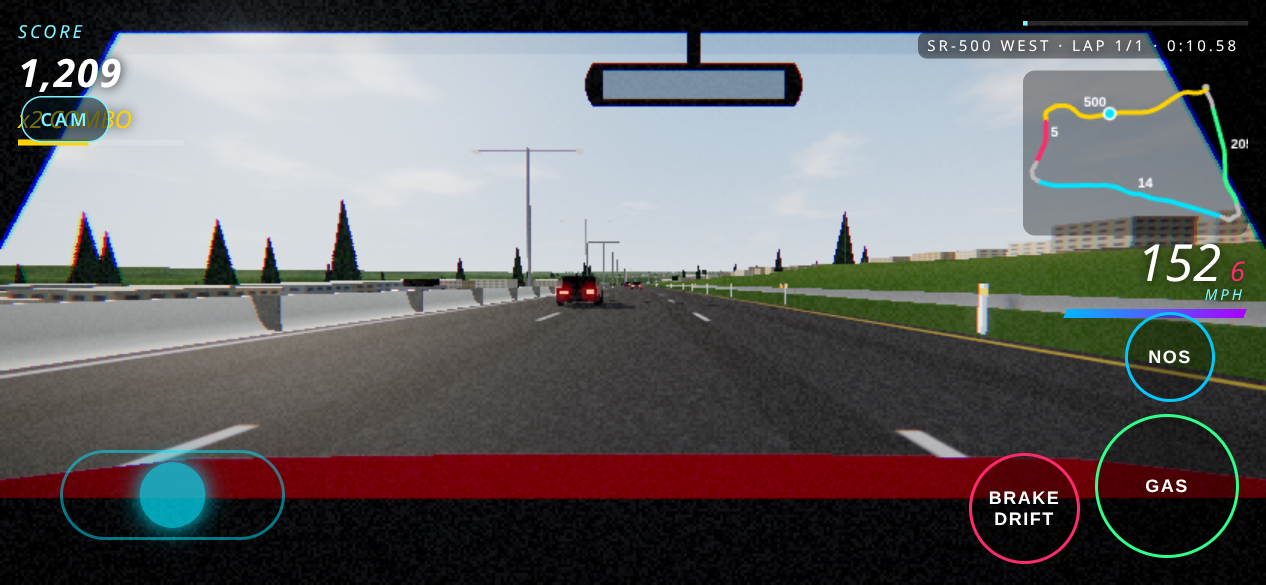
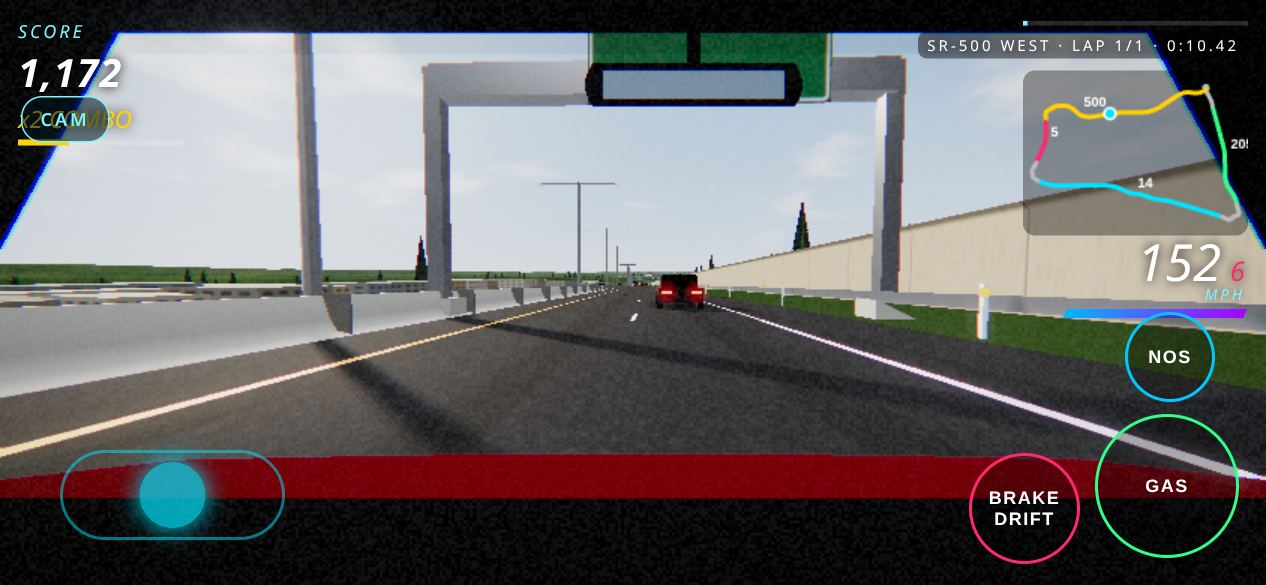
Whole-loop recognizability: exits w/ 1mi/half-mi signs (adds exit 29), named overpasses, flyovers, sound walls, SR-14 rail+train, bigger Glenn Jackson & Interstate Bridge

diff --git a/loop.js b/loop.js
@@ -229,7 +229,7 @@ function drawShield(x, kind, num, cx, cy, S) {
     x.fillStyle = '#111'; x.beginPath(); x.ellipse(-w * .3, -S * .24, S * .08, S * .11, -.3, 0, 7); x.fill(); // Washington profile (WA route shield)
     x.font = `bold ${S * .5}px Arial`; x.fillText(num, S * .06, S * .1); }
   x.restore(); }
-function guideTex(o) { return canvasTex(1024, 512, (x, w, h) => {
+function guideTex(o) { const Z = (LOW || MOBILE) ? .5 : 1; return canvasTex(1024 * Z, 512 * Z, (x, w, h) => { x.scale(Z, Z); w /= Z; h /= Z;
   x.fillStyle = '#0b6a3a'; x.beginPath(); x.roundRect(0, 0, w, h, 28); x.fill(); x.strokeStyle = '#f2f2f2'; x.lineWidth = 10; x.beginPath(); x.roundRect(14, 14, w - 28, h - 28, 20); x.stroke();
   let y = 34; const sh = o.sh || [];
   if (sh.length) { const S = 140, dir = sh.some(q => q[2]); sh.forEach(([k, n, d], i) => { const cx = w / 2 + (i - (sh.length - 1) / 2) * 280; if (d) { x.fillStyle = '#fff'; x.font = 'bold 50px Arial'; x.textAlign = 'center'; x.textBaseline = 'alphabetic'; x.fillText(d, cx, y + 46); } drawShield(x, k, n, cx, y + (dir ? 62 : 6) + S / 2, S); }); y += dir ? 218 : 160; }
@@ -259,12 +259,18 @@ function gantry(s, signs) { frame(s, F); const h = F.h, iR = W(Math.floor(s / ST
 const ROUTE = { 'I-5': ['I', '5', 'SOUTH'], 'I-205': ['I', '205', 'NORTH'], 'SR-14': ['S', '14', 'EAST'], 'SR-500': ['S', '500', 'WEST'] };
 const CTRL = { 'I-5': 'Portland', 'I-205': 'Seattle · Orchards', 'SR-14': 'Camas · Washougal', 'SR-500': 'Vancouver · I-5' };
 const parseR = t => { const m = /^(I|SR)\s*(\d+)\s*([A-Za-z]*)/.exec(t || ''); return m ? [m[1] === 'I' ? 'I' : 'S', m[2], m[3].toUpperCase()] : null; };
-const taken = [], freeAt = s => !taken.some(t => Math.abs(t - s) < 170);
-const EXS = OSM.exits.map(e => ({ ...e, s: e.i * STEP, nm: [...new Set(e.names.map(abbr))].slice(0, 2), sh: parseR(e.dref), ref: e.ref.replace(/;/g, '/') }));
+const taken = [], freeAt = s => !taken.some(t => Math.abs(t - s) < 130), side = [];
+const EXS = OSM.exits.map(e => ({ ...e, s: e.i * STEP, nm: [...new Set(e.names.map(abbr))].slice(0, 2), sh: (e.dref || '').split(';').map(parseR).filter(Boolean).slice(0, 2), ref: e.ref.replace(/;/g, '/') }));
 TR.secs.forEach(([nm, i0]) => { if (nm === 'Ramp') return; const s = i0 * STEP + 240; taken.push(s); gantry(s, [{ d: -1.6, w: 7.4, tex: guideTex({ sh: [ROUTE[nm]], lines: [CTRL[nm]] }) }]); });
-for (const e of EXS) { const sh = e.sh ? [e.sh] : [], lines = e.nm.length ? e.nm : ['Exit'];
-  for (const [b, foot] of [[760, '½ MILE'], [280, 'EXIT ONLY']]) { const s = e.s - b; if (s < 0 || !freeAt(s)) continue; taken.push(s); const nl = nlAt(s);
-    gantry(s, [{ d: laneD(nl - 1) + .4, w: 7.4, tab: e.ref ? 'EXIT ' + e.ref : '', tex: guideTex({ sh, lines, foot }) }]); } }
+const wrapS = s => ((s % L) + L) % L;
+function sideSign(s, tex) { frame(s, F); const d = 11.2 + exrAt(s), grp = new THREE.Group(); const sg = new THREE.Mesh(new THREE.PlaneGeometry(6.4, 3.2), signMat(tex)); sg.position.set(0, 4.4, 0); sg.rotation.y = Math.PI; grp.add(sg);
+  const bk = new THREE.Mesh(new THREE.PlaneGeometry(6.4, 3.2), backMat); bk.position.set(0, 4.4, .05); grp.add(bk); [-2.2, 2.2].forEach(x => { const po = new THREE.Mesh(new THREE.BoxGeometry(.25, 6, .25), steel); po.position.set(x, 2.4, .2); grp.add(po); });
+  grp.position.set(F.p.x + F.r.x * d, F.p.y - .6, F.p.z + F.r.z * d); grp.rotation.y = F.h; scene.add(grp); side.push(s); }
+for (const [b, foot] of [[300, 'EXIT ONLY'], [805, '½ MILE']]) for (const e of EXS) { const lines = e.nm.length ? e.nm : ['Exit'];
+  for (const o of [0, 40, -40, 80, -80, 120]) { const s = wrapS(e.s - b + o); if (!freeAt(s)) continue; taken.push(s); const nl = nlAt(s);
+    gantry(s, [{ d: laneD(nl - 1) + .4, w: 7.4, tab: e.ref ? 'EXIT ' + e.ref : '', tex: guideTex({ sh: e.sh, lines, foot: e.route && foot === 'EXIT ONLY' ? '' : foot }) }]); break; } }
+for (const e of EXS) for (const o of [0, 60, -60, 120, -120, 180]) { const s = wrapS(e.s - 1610 + o); if (taken.some(t => Math.abs(t - s) < 45) || side.some(t => Math.abs(t - s) < 80) || OPEN[W(Math.floor(s / STEP))]) continue;
+  sideSign(s, guideTex({ sh: e.sh, lines: e.nm.length ? e.nm : ['Exit'], foot: '1 MILE' })); if (e.ref) { } break; }
 // ramp ribbons + gore: crash cushion + 'EXIT nn' post sign
 { const rampTex = canvasTex(128, 256, (x, w, h) => { x.fillStyle = DAY ? '#3e3e42' : '#16161a'; x.fillRect(0, 0, w, h); for (let i = 0; i < 3000; i++) { const g = (DAY ? 46 : 14) + Math.random() * 40 | 0; x.fillStyle = `rgb(${g},${g},${g + 3})`; x.fillRect(Math.random() * w, Math.random() * h, 1.5, 1.5); } x.fillStyle = '#e6e6e6'; x.fillRect(4, 0, 4, h); x.fillStyle = '#e6e6e6'; x.fillRect(w - 8, 0, 4, h); }, true);
   const pos = [], uv = [], idx = []; let base = 0;
@@ -295,29 +301,29 @@ function beams(list, mat, th) { const g = new THREE.BoxGeometry(1, 1, 1); g.tran
 const resamp = (g, st) => { const o = []; for (let k = 0; k < g.length - 1; k++) { const [x0, z0] = g[k], [x1, z1] = g[k + 1], n = Math.max(1, Math.round(Math.hypot(x1 - x0, z1 - z0) / st)); for (let m = 0; m < n; m++) o.push([x0 + (x1 - x0) * m / n, z0 + (z1 - z0) * m / n]); } o.push(g.at(-1)); return o; };
 // Interstate Bridge: twin steel through-truss spans with the vertical-lift towers on the Vancouver side
 { const A = [-4930, 2017], B = [-5325, 2995], al = Math.hypot(B[0] - A[0], B[1] - A[1]), ux = (B[0] - A[0]) / al, uz = (B[1] - A[1]) / al;
-  const tm = new THREE.MeshStandardMaterial({ color: DAY ? 0x7d8a80 : 0x2a302c, roughness: .55, metalness: .5 }), dm = new THREE.MeshStandardMaterial({ color: DAY ? 0x9d9a92 : 0x2a2a2c, roughness: .9 });
+  const tm = new THREE.MeshStandardMaterial({ color: DAY ? 0x56665c : 0x2a302c, roughness: .55, metalness: .5 }), dm = new THREE.MeshStandardMaterial({ color: DAY ? 0x9d9a92 : 0x2a2a2c, roughness: .9 });
   const tr = [], dk = [], pr = [], tw = [];
   for (const w of OSM.lmk.ibridge) { const g = resamp(w.g, 9);
     for (let k = 0; k < g.length - 1; k++) { const [x0, z0] = g[k], [x1, z1] = g[k + 1], dx = x1 - x0, dz = z1 - z0, dl = Math.hypot(dx, dz) || 1, nx = -dz / dl, nz = dx / dl;
       const u0 = (x0 - A[0]) * ux + (z0 - A[1]) * uz, u1 = (x1 - A[0]) * ux + (z1 - A[1]) * uz;
       const yd0 = Math.max(demAt(x0, z0) + .8, WATER_Y + 13), yd1 = Math.max(demAt(x1, z1) + .8, WATER_Y + 13);
-      const ht = u => w.mov ? 13 : 5 + 7 * Math.sin(Math.PI * (((u % 82) + 82) % 82) / 82);
+      const ht = u => w.mov ? 20 : 7 + 11 * Math.sin(Math.PI * (((u % 82) + 82) % 82) / 82);
       dk.push([x0, yd0 - .6, z0, x1, yd1 - .6, z1, 12.5, 1.2]);
       if (u0 < 40 || u0 > al - 30) continue;
       [-6.5, 6.5].forEach(o => { const ax = x0 + nx * o, az = z0 + nz * o, bx = x1 + nx * o, bz = z1 + nz * o, h0 = ht(u0), h1 = ht(u1);
-        tr.push([ax, yd0, az, bx, yd1, bz, .6, .7], [ax, yd0 + h0, az, bx, yd1 + h1, bz, .7, .7], [ax, yd0, az, ax, yd0 + h0, az, .35, .35], [k % 2 ? ax : bx, k % 2 ? yd0 : yd1, k % 2 ? az : bz, k % 2 ? bx : ax, k % 2 ? yd1 + h1 : yd0 + h0, k % 2 ? bz : az, .3, .3]); });
+        tr.push([ax, yd0, az, bx, yd1, bz, 1.1, 1.2], [ax, yd0 + h0, az, bx, yd1 + h1, bz, 1.3, 1.3], [ax, yd0, az, ax, yd0 + h0, az, .7, .7], [k % 2 ? ax : bx, k % 2 ? yd0 : yd1, k % 2 ? az : bz, k % 2 ? bx : ax, k % 2 ? yd1 + h1 : yd0 + h0, k % 2 ? bz : az, .3, .3]); });
       tr.push([x0 - nx * 6.5, yd0 + ht(u0), z0 - nz * 6.5, x0 + nx * 6.5, yd0 + ht(u0), z0 + nz * 6.5, .3, .3]);
       if (Math.floor(u0 / 82) !== Math.floor(u1 / 82) && demAt(x0, z0) < WATER_Y + 3) pr.push([x0, WATER_Y - 2, z0, x0, yd0 - 1.2, z0, 15, 4]); }
-    if (w.mov) [w.g[0], w.g.at(-1)].forEach(([x, z]) => { const yd = WATER_Y + 13; [-1, 1].forEach(sx => [-1, 1].forEach(sz => tw.push([x + uz * 7 * sx + ux * 2.5 * sz, yd, z - ux * 7 * sx + uz * 2.5 * sz, x + uz * 7 * sx + ux * 2.5 * sz, yd + 50, z - ux * 7 * sx + uz * 2.5 * sz, .9, .9])));
-      tw.push([x + uz * 7.5, yd + 50, z - ux * 7.5, x - uz * 7.5, yd + 50, z + ux * 7.5, 6, 2.2], [x + uz * 7.5, yd + 30, z - ux * 7.5, x - uz * 7.5, yd + 30, z + ux * 7.5, 5.5, 4]); }); }
+    if (w.mov) [w.g[0], w.g.at(-1)].forEach(([x, z]) => { const yd = WATER_Y + 13; [-1, 1].forEach(sx => [-1, 1].forEach(sz => tw.push([x + uz * 7 * sx + ux * 2.5 * sz, yd, z - ux * 7 * sx + uz * 2.5 * sz, x + uz * 7 * sx + ux * 2.5 * sz, yd + 88, z - ux * 7 * sx + uz * 2.5 * sz, 2.6, 2.6])));
+      tw.push([x + uz * 8.5, yd + 88, z - ux * 8.5, x - uz * 8.5, yd + 88, z + ux * 8.5, 7, 4], [x + uz * 8.5, yd + 56, z - ux * 8.5, x - uz * 8.5, yd + 56, z + ux * 8.5, 6, 3], [x + uz * 8.5, yd + 24, z - ux * 8.5, x - uz * 8.5, yd + 24, z + ux * 8.5, 6, 3]); }); }
   beams(tr, tm, .5); beams(dk, dm, 1); beams(pr, dm, 4); beams(tw, tm, 1); }
 // Glenn L. Jackson Bridge (I-205): long, high concrete box girder on tall piers
 { const ws = OSM.lmk.glenn.filter(g => g.every(([x, z]) => x > 3800 && x < 5600 && z > 3700 && z < 6600)); let z0 = 1e9, z1 = -1e9; ws.forEach(g => g.forEach(([, z]) => { z0 = Math.min(z0, z); z1 = Math.max(z1, z); }));
-  const dm = new THREE.MeshStandardMaterial({ color: DAY ? 0xa29e94 : 0x333335, roughness: .85 }), dk = [], pr = [];
-  const yAt = (x, z) => Math.max(demAt(x, z) + 1, WATER_Y + 4 + 52 * THREE.MathUtils.smoothstep(z, z0, z0 + 450) * (1 - THREE.MathUtils.smoothstep(z, z1 - 600, z1)));
+  const dm = new THREE.MeshStandardMaterial({ color: DAY ? 0x8e8a81 : 0x333335, roughness: .85 }), dk = [], pr = [];
+  const yAt = (x, z) => Math.max(demAt(x, z) + 1, WATER_Y + 4 + 100 * THREE.MathUtils.smoothstep(z, z0, z0 + 650) * (1 - THREE.MathUtils.smoothstep(z, z1 - 600, z1)));
   for (const w of ws) { const g = resamp(w, 12); for (let k = 0; k < g.length - 1; k++) { const [xa, za] = g[k], [xb, zb] = g[k + 1], ya = yAt(xa, za), yb = yAt(xb, zb);
       if (Math.min(...P.filter((_, i) => i % 8 === 0).map(p => Math.hypot(p.x - xa, p.z - za))) < 30) continue;
-      dk.push([xa, ya - 3.5, za, xb, yb - 3.5, zb, 20, 5], [xa, ya + .5, za, xb, yb + .5, zb, 20.5, 1]); if (k % 7 === 0 && ya - demAt(xa, za) > 6) pr.push([xa, Math.max(demAt(xa, za), WATER_Y) - 2, za, xa, ya - 3.5, za, 12, 4.5]); } }
+      dk.push([xa, ya - 6, za, xb, yb - 6, zb, 24, 8], [xa, ya + .5, za, xb, yb + .5, zb, 20.5, 1]); if (k % 5 === 0 && ya - demAt(xa, za) > 6) pr.push([xa, Math.max(demAt(xa, za), WATER_Y) - 2, za, xa, ya - 3.5, za, 12, 4.5]); } }
   if (dk.length) { beams(dk, dm, 1); beams(pr, dm, 4); } }
 // water towers (incl. the one by Pearson / Fort Vancouver)
 { const wm = new THREE.MeshStandardMaterial({ color: 0xd7dde2, roughness: .5, metalness: .3 });
@@ -351,6 +357,51 @@ const resamp = (g, st) => { const o = []; for (let k = 0; k < g.length - 1; k++)
   const st = canvasTex(512, 256, (x, w, h) => { x.fillStyle = '#b3122a'; x.fillRect(0, 0, w, h); x.fillStyle = '#fff'; x.textAlign = 'center'; x.font = 'bold 96px Arial'; x.fillText('VANCOUVER', w / 2, 110); x.font = 'bold 110px Arial'; x.fillText('MALL', w / 2, 220); });
   const pl = new THREE.Mesh(new THREE.BoxGeometry(8, 4, .5), [backMat, backMat, backMat, backMat, signMat(st), signMat(st)]); pl.position.y = 19; pyl.add(pl); pyl.position.set(pp.x, py, pp.z); pyl.rotation.y = T[sj] ? Math.atan2(T[sj].x, T[sj].z) : 0; scene.add(pyl); }
 
+// ---------- whole-loop recognizability: overpasses with street names, interchange flyovers + crossing mainlines, sound walls, BNSF rail on SR-14 ----------
+const nameTex = t => canvasTex(512, 96, (x, w, h) => { x.fillStyle = '#0b6a3a'; x.beginPath(); x.roundRect(0, 0, w, h, 12); x.fill(); x.strokeStyle = '#f2f2f2'; x.lineWidth = 5; x.beginPath(); x.roundRect(6, 6, w - 12, h - 12, 9); x.stroke();
+  x.fillStyle = '#fff'; x.textAlign = 'center'; x.textBaseline = 'middle'; let fs = 62; x.font = `bold ${fs}px "Arial Narrow", Arial`; while (x.measureText(t).width > w - 40 && fs > 24) { fs -= 3; x.font = `bold ${fs}px "Arial Narrow", Arial`; } x.fillText(t, w / 2, h / 2 + 3); });
+{ const dk = [], pr = [], pp = [];
+  for (const c of OSM.xing) { const i = c.i, p = P[i], rn = RN[i], t = T[i], nm = abbr(c.name);
+    if (c.over) { const cs = c.dx * rn.x + c.dz * rn.z, sgn = Math.abs(cs) < .35 ? Math.sign(cs || 1) * .35 : cs, yd = p.y + 7.2, hl = clamp(c.len / 2, 30 + EXR[i], 70);
+      dk.push([c.x - c.dx * hl, yd, c.z - c.dz * hl, c.x + c.dx * hl, yd, c.z + c.dz * hl, 13, 1.7], [c.x - c.dx * hl, yd + .85, c.z - c.dz * hl, c.x + c.dx * hl, yd + .85, c.z + c.dz * hl, 13.4, .5]);
+      for (const d of [-8.6, 12.6 + EXR[i], -30]) { const q = d / sgn, x = c.x + c.dx * q, z = c.z + c.dz * q; for (const o of [-4, 4]) pr.push([x + t.x * o, Math.min(p.y, demAt(x, z)) - 1, z + t.z * o, x + t.x * o, yd - .85, z + t.z * o, 1.3, 1.3]); }
+      const g = new THREE.Mesh(new THREE.PlaneGeometry(12, 2.1), signMat(nameTex(nm))); g.position.set(c.x - t.x * 7.0 + rn.x * 1.5, yd + .1, c.z - t.z * 7.0 + rn.z * 1.5); g.rotation.y = Math.atan2(t.x, t.z) + Math.PI; scene.add(g); }
+    else { const s = i * STEP - 70; frame(s, F); const d = 10.4 + exrAt(s), x = F.p.x + F.r.x * d, z = F.p.z + F.r.z * d; pp.push([x, F.p.y - 1, z, x, F.p.y + 3.2, z, .14, .14]);
+      const g = new THREE.Mesh(new THREE.PlaneGeometry(4.6, .86), signMat(nameTex(nm))); g.position.set(x, F.p.y + 3.6, z); g.rotation.y = F.h + Math.PI; scene.add(g); } }
+  beams(dk, conc, 1); beams(pr, conc, 1.3); if (pp.length) beams(pp, steel, .14); }
+// ribbon helper along an xz polyline with per-point y; prof = [[across, dy], ...]
+function ribbon(list, mat, prof, vS = 24) { const pos = [], uv = [], idx = []; let base = 0; const n = prof.length;
+  for (const L of list) { const m = L.length; let v = 0;
+    for (let k = 0; k < m; k++) { const [x, y, z] = L[k], a = L[Math.max(0, k - 1)], b = L[Math.min(m - 1, k + 1)]; let tx = b[0] - a[0], tz = b[2] - a[2]; const tl = Math.hypot(tx, tz) || 1; tx /= tl; tz /= tl;
+      if (k) v += Math.hypot(x - L[k - 1][0], z - L[k - 1][2]); const w = L[k][3] || 1;
+      for (let j = 0; j < n; j++) { const d = prof[j][0] * w; pos.push(x - tz * d, y + prof[j][1], z + tx * d); uv.push(j / (n - 1), v / vS); }
+      if (k) for (let j = 0; j < n - 1; j++) { const q = base + (k - 1) * n + j; idx.push(q, q + n, q + 1, q + 1, q + n, q + n + 1); } }
+    base += m * n; }
+  const g = new THREE.BufferGeometry(); g.setAttribute('position', new THREE.Float32BufferAttribute(pos, 3)); g.setAttribute('uv', new THREE.Float32BufferAttribute(uv, 2)); g.setIndex(idx); g.computeVertexNormals();
+  const me = new THREE.Mesh(g, mat); me.receiveShadow = DAY; me.frustumCulled = false; scene.add(me); return me; }
+const pkd = P.filter((_, i) => i % 4 === 0), loopNear = (x, z) => { let bd = 1e18, by = 0; for (const p of pkd) { const d = (p.x - x) ** 2 + (p.z - z) ** 2; if (d < bd) { bd = d; by = p.y; } } return [Math.sqrt(bd), by]; };
+// interchange flyovers (OSM motorway_link bridges, layer-lifted, cleared over the loop) + the crossing mainlines
+{ const top = [], dkL = [], pr = [];
+  for (const f of OSM.fly) { const g = resamp(f.g, 8), m = g.length, gl = g.map(([x, z]) => Math.max(demAt(x, z), WATER_Y) + .5); let cl = 0; const cum = [0]; for (let k = 1; k < m; k++) cum.push(cum[k - 1] + Math.hypot(g[k][0] - g[k - 1][0], g[k][1] - g[k - 1][1])); const tot = cum[m - 1];
+    let lift = 0; if (f.br) { lift = 7.4 * Math.max(1, f.ly); for (const [x, z] of g) { const [d, y] = loopNear(x, z); if (d < 22) lift = Math.max(lift, y + 7.6 - Math.min(...gl)); } }
+    const L = g.map(([x, z], k) => { const tp = f.br ? Math.min(1, Math.min(cum[k], tot - cum[k]) / Math.min(70, tot / 2.2) + .25) : 0; return [x, gl[k] + lift * Math.min(1, tp), z, f.w / 2]; });
+    top.push(L); if (f.br) { dkL.push(L); L.forEach((p, k) => { if (k % 4 === 2 && p[1] - gl[k] > 4) pr.push([p[0], gl[k] - 1, p[2], p[0], p[1] - 1.2, p[2], 2.2, 2.2]); }); } }
+  const rt = canvasTex(128, 256, (x, w, h) => { x.fillStyle = DAY ? '#45454a' : '#16161a'; x.fillRect(0, 0, w, h); for (let i = 0; i < 2500; i++) { const g = (DAY ? 50 : 14) + Math.random() * 40 | 0; x.fillStyle = `rgb(${g},${g},${g + 3})`; x.fillRect(Math.random() * w, Math.random() * h, 1.5, 1.5); } x.fillStyle = '#e6e6e6'; x.fillRect(3, 0, 4, h); x.fillRect(w - 7, 0, 4, h); }, true);
+  ribbon(top, new THREE.MeshStandardMaterial({ map: rt, roughness: .9, color: 0x9a9a9e, side: 2, polygonOffset: true, polygonOffsetFactor: -2 }), [[-1, 0], [1, 0]]);
+  ribbon(dkL, conc, [[-1.08, -1.6], [-1.08, .9], [-1, .9], [-1, 0.05], [-1.08, -1.6], [1.08, -1.6], [1, .05], [1, .9], [1.08, .9], [1.08, -1.6]]);
+  beams(pr, conc, 2.2); }
+// sound walls: tan concrete panels behind the right shoulder on I-205 and SR-500 (gaps at ramps, bridges, overpasses)
+{ const wt = canvasTex(64, 256, (x, w, h) => { x.fillStyle = DAY ? '#b3a58e' : '#3a362f'; x.fillRect(0, 0, w, h); for (let i = 0; i < 900; i++) { x.fillStyle = `rgba(0,0,0,${Math.random() * .08})`; x.fillRect(Math.random() * w, Math.random() * h, 2, 2); } x.fillStyle = 'rgba(0,0,0,.35)'; x.fillRect(0, 0, w, 3); x.fillStyle = 'rgba(255,255,255,.18)'; x.fillRect(0, 4, w, 2); x.fillStyle = 'rgba(0,0,0,.12)'; x.fillRect(w * .78, 0, w * .22, h); }, true);
+  const near = new Uint8Array(N); OSM.xing.forEach(c => { for (let q = -12; q <= 12; q++) near[W(c.i + q)] = 1; });
+  const use = i => (SEC[i] === 'I-205' || (SEC[i] === 'SR-500' && (i < 5720 || i > 6060))) && !BRG[i] && !near[i] && !OPEN[W(i - 8)] && !OPEN[i] && !OPEN[W(i + 8)];
+  sweep([[13.6, -3], [13.6, 3.6], [13.9, 3.9], [14.2, 3.6], [14.2, -3]], new THREE.MeshStandardMaterial({ map: wt, roughness: .95 }), { k: 2, use, vScale: 1 / 6 }); }
+// BNSF main line along SR-14 (real OSM track) + a parked freight
+{ const bt = canvasTex(64, 64, (x, w, h) => { x.fillStyle = DAY ? '#7a7166' : '#24211e'; x.fillRect(0, 0, w, h); for (let i = 0; i < 500; i++) { const g = 90 + Math.random() * 60 | 0; x.fillStyle = `rgba(${g},${g - 8},${g - 16},.6)`; x.fillRect(Math.random() * w, Math.random() * h, 2, 2); } x.fillStyle = '#3b2a1e'; x.fillRect(8, 0, w - 16, 14); x.fillStyle = '#b8b8bc'; x.fillRect(19, 0, 4, h); x.fillRect(w - 23, 0, 4, h); }, true);
+  const RL = OSM.rail.map(r => resamp(r, 6).map(([x, z]) => [x, Math.max(demAt(x, z), WATER_Y + .5) + 1.1, z, 1]));
+  ribbon(RL, new THREE.MeshStandardMaterial({ map: bt, roughness: 1, polygonOffset: true, polygonOffsetFactor: -2 }), [[-2.2, 0], [2.2, 0]], 2.4);
+  const sc = r => r.filter(([x, , z]) => { for (let i = 2300; i < 2750; i += 10) if (Math.hypot(P[i].x - x, P[i].z - z) < 110) return true; return false; }).length, lg = RL.reduce((a, b) => sc(b) > sc(a) ? b : a, []), cars = []; const cols = [0x8a3a22, 0x2c4a6a, 0x5b5f63, 0x7a2f1c, 0x335533, 0x9a6a2a];
+  for (let k = 20; k + 3 < lg.length && cars.length < (LOW ? 28 : 48); k += 3) { const a = lg[k], b = lg[k + 3]; cars.push([a[0], a[1] + .9, a[2], b[0], b[1] + .9, b[2], 3, 4]); }
+  if (cars.length) { const im = beams(cars, new THREE.MeshStandardMaterial({ roughness: .8 }), 3); const c = new THREE.Color(); cars.forEach((_, i) => im.setColorAt(i, c.setHex(i < 3 ? 0xd2691e : cols[i % cols.length]))); } }
 // ---------- fir tree cards (instanced crossed quads) ----------
 { const firTex = canvasTex(128, 256, (x, w, h) => { x.clearRect(0, 0, w, h); for (let i = 0; i < 26; i++) { const y = 20 + i * 8.6, hw = 6 + i * 2.2; x.fillStyle = `rgb(${8 + Math.random() * 10 | 0},${22 + Math.random() * 16 | 0},${14 + Math.random() * 10 | 0})`; x.beginPath(); x.moveTo(w / 2, y - 14); x.lineTo(w / 2 - hw, y + 12); x.lineTo(w / 2 + hw, y + 12); x.fill(); } x.fillStyle = '#1a120c'; x.fillRect(w / 2 - 4, h - 26, 8, 26); });
   const g1 = new THREE.PlaneGeometry(1, 1); g1.translate(0, .5, 0); const g2 = g1.clone().rotateY(Math.PI / 2); const gg = new THREE.BufferGeometry();

diff --git a/loopsrc/whole_scene.js b/loopsrc/whole_scene.js
@@ -1,0 +1,45 @@
+// ---------- whole-loop recognizability: overpasses with street names, interchange flyovers + crossing mainlines, sound walls, BNSF rail on SR-14 ----------
+const nameTex = t => canvasTex(512, 96, (x, w, h) => { x.fillStyle = '#0b6a3a'; x.beginPath(); x.roundRect(0, 0, w, h, 12); x.fill(); x.strokeStyle = '#f2f2f2'; x.lineWidth = 5; x.beginPath(); x.roundRect(6, 6, w - 12, h - 12, 9); x.stroke();
+  x.fillStyle = '#fff'; x.textAlign = 'center'; x.textBaseline = 'middle'; let fs = 62; x.font = `bold ${fs}px "Arial Narrow", Arial`; while (x.measureText(t).width > w - 40 && fs > 24) { fs -= 3; x.font = `bold ${fs}px "Arial Narrow", Arial`; } x.fillText(t, w / 2, h / 2 + 3); });
+{ const dk = [], pr = [], pp = [];
+  for (const c of OSM.xing) { const i = c.i, p = P[i], rn = RN[i], t = T[i], nm = abbr(c.name);
+    if (c.over) { const cs = c.dx * rn.x + c.dz * rn.z, sgn = Math.abs(cs) < .35 ? Math.sign(cs || 1) * .35 : cs, yd = p.y + 7.2, hl = clamp(c.len / 2, 30 + EXR[i], 70);
+      dk.push([c.x - c.dx * hl, yd, c.z - c.dz * hl, c.x + c.dx * hl, yd, c.z + c.dz * hl, 13, 1.7], [c.x - c.dx * hl, yd + .85, c.z - c.dz * hl, c.x + c.dx * hl, yd + .85, c.z + c.dz * hl, 13.4, .5]);
+      for (const d of [-8.6, 12.6 + EXR[i], -30]) { const q = d / sgn, x = c.x + c.dx * q, z = c.z + c.dz * q; for (const o of [-4, 4]) pr.push([x + t.x * o, Math.min(p.y, demAt(x, z)) - 1, z + t.z * o, x + t.x * o, yd - .85, z + t.z * o, 1.3, 1.3]); }
+      const g = new THREE.Mesh(new THREE.PlaneGeometry(12, 2.1), signMat(nameTex(nm))); g.position.set(c.x - t.x * 7.0 + rn.x * 1.5, yd + .1, c.z - t.z * 7.0 + rn.z * 1.5); g.rotation.y = Math.atan2(t.x, t.z) + Math.PI; scene.add(g); }
+    else { const s = i * STEP - 70; frame(s, F); const d = 10.4 + exrAt(s), x = F.p.x + F.r.x * d, z = F.p.z + F.r.z * d; pp.push([x, F.p.y - 1, z, x, F.p.y + 3.2, z, .14, .14]);
+      const g = new THREE.Mesh(new THREE.PlaneGeometry(4.6, .86), signMat(nameTex(nm))); g.position.set(x, F.p.y + 3.6, z); g.rotation.y = F.h + Math.PI; scene.add(g); } }
+  beams(dk, conc, 1); beams(pr, conc, 1.3); if (pp.length) beams(pp, steel, .14); }
+// ribbon helper along an xz polyline with per-point y; prof = [[across, dy], ...]
+function ribbon(list, mat, prof, vS = 24) { const pos = [], uv = [], idx = []; let base = 0; const n = prof.length;
+  for (const L of list) { const m = L.length; let v = 0;
+    for (let k = 0; k < m; k++) { const [x, y, z] = L[k], a = L[Math.max(0, k - 1)], b = L[Math.min(m - 1, k + 1)]; let tx = b[0] - a[0], tz = b[2] - a[2]; const tl = Math.hypot(tx, tz) || 1; tx /= tl; tz /= tl;
+      if (k) v += Math.hypot(x - L[k - 1][0], z - L[k - 1][2]); const w = L[k][3] || 1;
+      for (let j = 0; j < n; j++) { const d = prof[j][0] * w; pos.push(x - tz * d, y + prof[j][1], z + tx * d); uv.push(j / (n - 1), v / vS); }
+      if (k) for (let j = 0; j < n - 1; j++) { const q = base + (k - 1) * n + j; idx.push(q, q + n, q + 1, q + 1, q + n, q + n + 1); } }
+    base += m * n; }
+  const g = new THREE.BufferGeometry(); g.setAttribute('position', new THREE.Float32BufferAttribute(pos, 3)); g.setAttribute('uv', new THREE.Float32BufferAttribute(uv, 2)); g.setIndex(idx); g.computeVertexNormals();
+  const me = new THREE.Mesh(g, mat); me.receiveShadow = DAY; me.frustumCulled = false; scene.add(me); return me; }
+const pkd = P.filter((_, i) => i % 4 === 0), loopNear = (x, z) => { let bd = 1e18, by = 0; for (const p of pkd) { const d = (p.x - x) ** 2 + (p.z - z) ** 2; if (d < bd) { bd = d; by = p.y; } } return [Math.sqrt(bd), by]; };
+// interchange flyovers (OSM motorway_link bridges, layer-lifted, cleared over the loop) + the crossing mainlines
+{ const top = [], dkL = [], pr = [];
+  for (const f of OSM.fly) { const g = resamp(f.g, 8), m = g.length, gl = g.map(([x, z]) => Math.max(demAt(x, z), WATER_Y) + .5); let cl = 0; const cum = [0]; for (let k = 1; k < m; k++) cum.push(cum[k - 1] + Math.hypot(g[k][0] - g[k - 1][0], g[k][1] - g[k - 1][1])); const tot = cum[m - 1];
+    let lift = 0; if (f.br) { lift = 7.4 * Math.max(1, f.ly); for (const [x, z] of g) { const [d, y] = loopNear(x, z); if (d < 22) lift = Math.max(lift, y + 7.6 - Math.min(...gl)); } }
+    const L = g.map(([x, z], k) => { const tp = f.br ? Math.min(1, Math.min(cum[k], tot - cum[k]) / Math.min(70, tot / 2.2) + .25) : 0; return [x, gl[k] + lift * Math.min(1, tp), z, f.w / 2]; });
+    top.push(L); if (f.br) { dkL.push(L); L.forEach((p, k) => { if (k % 4 === 2 && p[1] - gl[k] > 4) pr.push([p[0], gl[k] - 1, p[2], p[0], p[1] - 1.2, p[2], 2.2, 2.2]); }); } }
+  const rt = canvasTex(128, 256, (x, w, h) => { x.fillStyle = DAY ? '#45454a' : '#16161a'; x.fillRect(0, 0, w, h); for (let i = 0; i < 2500; i++) { const g = (DAY ? 50 : 14) + Math.random() * 40 | 0; x.fillStyle = `rgb(${g},${g},${g + 3})`; x.fillRect(Math.random() * w, Math.random() * h, 1.5, 1.5); } x.fillStyle = '#e6e6e6'; x.fillRect(3, 0, 4, h); x.fillRect(w - 7, 0, 4, h); }, true);
+  ribbon(top, new THREE.MeshStandardMaterial({ map: rt, roughness: .9, color: 0x9a9a9e, side: 2, polygonOffset: true, polygonOffsetFactor: -2 }), [[-1, 0], [1, 0]]);
+  ribbon(dkL, conc, [[-1.08, -1.6], [-1.08, .9], [-1, .9], [-1, 0.05], [-1.08, -1.6], [1.08, -1.6], [1, .05], [1, .9], [1.08, .9], [1.08, -1.6]]);
+  beams(pr, conc, 2.2); }
+// sound walls: tan concrete panels behind the right shoulder on I-205 and SR-500 (gaps at ramps, bridges, overpasses)
+{ const wt = canvasTex(64, 256, (x, w, h) => { x.fillStyle = DAY ? '#b3a58e' : '#3a362f'; x.fillRect(0, 0, w, h); for (let i = 0; i < 900; i++) { x.fillStyle = `rgba(0,0,0,${Math.random() * .08})`; x.fillRect(Math.random() * w, Math.random() * h, 2, 2); } x.fillStyle = 'rgba(0,0,0,.35)'; x.fillRect(0, 0, w, 3); x.fillStyle = 'rgba(255,255,255,.18)'; x.fillRect(0, 4, w, 2); x.fillStyle = 'rgba(0,0,0,.12)'; x.fillRect(w * .78, 0, w * .22, h); }, true);
+  const near = new Uint8Array(N); OSM.xing.forEach(c => { for (let q = -12; q <= 12; q++) near[W(c.i + q)] = 1; });
+  const use = i => (SEC[i] === 'I-205' || (SEC[i] === 'SR-500' && (i < 5720 || i > 6060))) && !BRG[i] && !near[i] && !OPEN[W(i - 8)] && !OPEN[i] && !OPEN[W(i + 8)];
+  sweep([[13.6, -3], [13.6, 3.6], [13.9, 3.9], [14.2, 3.6], [14.2, -3]], new THREE.MeshStandardMaterial({ map: wt, roughness: .95 }), { k: 2, use, vScale: 1 / 6 }); }
+// BNSF main line along SR-14 (real OSM track) + a parked freight
+{ const bt = canvasTex(64, 64, (x, w, h) => { x.fillStyle = DAY ? '#7a7166' : '#24211e'; x.fillRect(0, 0, w, h); for (let i = 0; i < 500; i++) { const g = 90 + Math.random() * 60 | 0; x.fillStyle = `rgba(${g},${g - 8},${g - 16},.6)`; x.fillRect(Math.random() * w, Math.random() * h, 2, 2); } x.fillStyle = '#3b2a1e'; x.fillRect(8, 0, w - 16, 14); x.fillStyle = '#b8b8bc'; x.fillRect(19, 0, 4, h); x.fillRect(w - 23, 0, 4, h); }, true);
+  const RL = OSM.rail.map(r => resamp(r, 6).map(([x, z]) => [x, Math.max(demAt(x, z), WATER_Y + .5) + 1.1, z, 1]));
+  ribbon(RL, new THREE.MeshStandardMaterial({ map: bt, roughness: 1, polygonOffset: true, polygonOffsetFactor: -2 }), [[-2.2, 0], [2.2, 0]], 2.4);
+  const sc = r => r.filter(([x, , z]) => { for (let i = 2300; i < 2750; i += 10) if (Math.hypot(P[i].x - x, P[i].z - z) < 110) return true; return false; }).length, lg = RL.reduce((a, b) => sc(b) > sc(a) ? b : a, []), cars = []; const cols = [0x8a3a22, 0x2c4a6a, 0x5b5f63, 0x7a2f1c, 0x335533, 0x9a6a2a];
+  for (let k = 20; k + 3 < lg.length && cars.length < (LOW ? 28 : 48); k += 3) { const a = lg[k], b = lg[k + 3]; cars.push([a[0], a[1] + .9, a[2], b[0], b[1] + .9, b[2], 3, 4]); }
+  if (cars.length) { const im = beams(cars, new THREE.MeshStandardMaterial({ roughness: .8 }), 3); const c = new THREE.Color(); cars.forEach((_, i) => im.setColorAt(i, c.setHex(i < 3 ? 0xd2691e : cols[i % cols.length]))); } }

diff --git a/loopsrc/build_whole.py b/loopsrc/build_whole.py
@@ -1,0 +1,108 @@
+# Whole-loop recognizability data -> osm.json additions: all exits (incl. route exits), street crossings, interchange links/mainlines, rail
+import json,math,numpy as np
+from scipy.spatial import cKDTree
+SRC='/workspace/racex-loop/data/'
+lat0,lon0=45.64,-122.61;KX=111320*math.cos(math.radians(lat0));KY=110540
+Wc=lambda c:((c['lon']-lon0)*KX,-(c['lat']-lat0)*KY)
+LP=json.load(open('/workspace/repo/loop.json'));pts=np.array(LP['pts']);N=len(pts);XZ=pts[:,:2];BRG=LP['bridge']
+secs=LP['secs'];lab=['']*N
+for k,(nm,i0) in enumerate(secs):
+    for i in range(i0,secs[k+1][1] if k+1<len(secs) else N):lab[i]=nm
+tan=np.roll(XZ,-2,0)-np.roll(XZ,2,0);tan/=np.linalg.norm(tan,axis=1)[:,None];kd=cKDTree(XZ)
+O=json.load(open('/workspace/repo/osm.json'))
+H=json.load(open(SRC+'hwy.json'))['elements'];LM=json.load(open(SRC+'lm.json'))['elements']
+links=[w for w in H if w['tags'].get('highway') in('motorway_link','trunk_link')]
+named=[w for w in H if w['tags'].get('name') and w['tags'].get('highway') in('primary','secondary','tertiary','residential','unclassified','trunk')]
+nseg=[];nnm=[]
+for w in named:
+    for c in w['geometry']:nseg.append(Wc(c));nnm.append(w['tags']['name'])
+nk=cKDTree(np.array(nseg))
+def g2(w):return np.array([Wc(c) for c in w['geometry']])
+starts=cKDTree(np.array([Wc(w['geometry'][0]) for w in links]))
+def chain(w):
+    g=list(w['geometry'])
+    for _ in range(6):
+        e=g[-1];nx=[x for x in links if x is not w and abs(x['geometry'][0]['lat']-e['lat'])<1e-6 and abs(x['geometry'][0]['lon']-e['lon'])<1e-6]
+        if not nx:break
+        g+=nx[0]['geometry'][1:];w=nx[0]
+    return np.array([Wc(c) for c in g])
+# ---- exits: every motorway_junction on our carriageway
+ex=[]
+for j in LM:
+    t=j.get('tags',{})
+    if t.get('highway')!='motorway_junction':continue
+    p=np.array(Wc(j));d,i=kd.query(p)
+    if d>40:continue
+    for wi in starts.query_ball_point(p,14):
+        w=links[wi];q=chain(w);dd,_=kd.query(q)
+        cl=np.concatenate([[0],np.cumsum(np.linalg.norm(np.diff(q,axis=0),axis=1))]);v=q[min(int(np.searchsorted(cl,30)),len(q)-1)]-q[0]
+        if np.linalg.norm(v)<1 or v@tan[i]/np.linalg.norm(v)<.3:continue
+        route=(dd>15).sum()<3
+        tg=w['tags'];ds=tg.get('destination') or tg.get('exit_to') or ''
+        names=[x.strip() for x in ds.replace(';','|').split('|') if x.strip()][:2]
+        if not names and not route:
+            _,k=nk.query(q[-1]);names=[nnm[k]]
+        ex.append({'i':int(i),'ref':t.get('ref',''),'names':names,'dref':tg.get('destination:ref',''),'route':bool(route),'lab':lab[i]})
+ex.sort(key=lambda e:e['i']);ex2=[]
+for e in ex:
+    m=[f for f in ex2 if abs(f['i']-e['i'])<25 and (f['ref']==e['ref'] or not e['ref'] or not f['ref'])]
+    if m:
+        f=m[0]
+        if not f['names'] and e['names']:f['names']=e['names']
+        if not f['ref'] and e['ref']:f['ref']=e['ref']
+        continue
+    ex2.append(e)
+for e in ex2:print(e)
+O['exits']=ex2
+# ---- street crossings (segment intersection with loop polyline)
+def inter(a,b,c,d):
+    r=b-a;s=d-c;den=r[0]*s[1]-r[1]*s[0]
+    if abs(den)<1e-9:return None
+    t=((c-a)[0]*s[1]-(c-a)[1]*s[0])/den;u=((c-a)[0]*r[1]-(c-a)[1]*r[0])/den
+    return (t,u) if 0<=t<=1 and 0<=u<=1 else None
+xs=[]
+for w in named:
+    q=g2(w);dd,ii=kd.query(q)
+    if dd.min()>200:continue
+    for k in range(len(q)-1):
+        a,b=q[k],q[k+1];_,i0=kd.query((a+b)/2)
+        for i in range(i0-40,i0+40):
+            c,d=XZ[i%N],XZ[(i+1)%N];r=inter(a,b,c,d)
+            if r:
+                tg=w['tags'];over=bool(tg.get('bridge')) and tg.get('layer','1')!='-1'
+                under=bool(BRG[i%N]) or tg.get('tunnel') or tg.get('layer','0').startswith('-')
+                if not over and not under:continue
+                dirv=(b-a)/np.linalg.norm(b-a);P0=a+(b-a)*r[0]
+                xs.append({'i':i%N,'name':tg['name'],'over':over,'x':round(float(P0[0]),1),'z':round(float(P0[1]),1),'dx':round(float(dirv[0]),3),'dz':round(float(dirv[1]),3),'len':round(float(np.linalg.norm(q[-1]-q[0])) if over else 0,1)})
+xs.sort(key=lambda e:e['i']);x2=[]
+for e in xs:
+    if x2 and abs(e['i']-x2[-1]['i'])<12 and e['name']==x2[-1]['name']:continue
+    x2.append(e)
+for e in x2:print('X',e['i'],lab[e['i']],e['name'],'OVER' if e['over'] else 'under')
+O['xing']=x2
+# ---- interchange links + crossing mainlines
+IC=[997,1600,4000,5460]
+ck=cKDTree(XZ[IC]);rk=cKDTree(np.array([p for r in O['ramps'] for p in r['xz']]))
+fly=[]
+for w in H:
+    hw=w['tags'].get('highway')
+    if hw not in('motorway_link','motorway','trunk','trunk_link'):continue
+    q=g2(w);dc,_=ck.query(q)
+    if dc.min()>750:continue
+    dd,_=kd.query(q)
+    if np.median(dd)<(10 if 'link' in hw else 28):continue
+    if 'link' in hw:
+        dr,_=rk.query(q)
+        if np.median(dr)<5:continue
+    t=w['tags'];ln=int(t['lanes']) if t.get('lanes','').isdigit() else (1 if 'link' in hw else 3)
+    fly.append({'g':[[round(a,1),round(b,1)] for a,b in q],'br':bool(t.get('bridge')),'ly':int(t.get('layer','1')) if t.get('layer','1').lstrip('-').isdigit() else 1,'w':round(min(ln,5)*3.7+2.4,1)})
+print('fly',len(fly),sum(f['br'] for f in fly))
+O['fly']=fly
+# ---- rail near SR-14
+R=json.load(open(SRC+'rail.json'))['elements'];rl=[]
+for w in R:
+    q=g2(w);dd,ii=kd.query(q)
+    if dd.min()<320 and any(lab[x]=='SR-14' for x in ii):rl.append([[round(a,1),round(b,1)] for a,b in q])
+print('rail',len(rl),sum(len(r) for r in rl))
+O['rail']=rl
+json.dump(O,open('/workspace/repo/osm.json','w'),separators=(',',':'))

diff --git a/loopsrc/whole.py b/loopsrc/whole.py
@@ -1,0 +1,39 @@
+# patch loop.js in place for the whole-loop pass
+import re
+p='/workspace/repo/loop.js';s=open(p).read()
+def rep(a,b,cnt=1):
+    global s
+    assert s.count(a)>=1,a[:80]; s=s.replace(a,b) if cnt==0 else s.replace(a,b,cnt)
+# lighter sign textures on phones
+rep("function guideTex(o) { return canvasTex(1024, 512, (x, w, h) => {","function guideTex(o) { const Z = (LOW || MOBILE) ? .5 : 1; return canvasTex(1024 * Z, 512 * Z, (x, w, h) => { x.scale(Z, Z); w /= Z; h /= Z;")
+# exit signage: 1 MILE (side-mounted), 1/2 MILE and EXIT gantries for every exit
+old=s[s.index("const taken = [], freeAt"):s.index("// ramp ribbons + gore")]
+new='''const taken = [], freeAt = s => !taken.some(t => Math.abs(t - s) < 130), side = [];
+const EXS = OSM.exits.map(e => ({ ...e, s: e.i * STEP, nm: [...new Set(e.names.map(abbr))].slice(0, 2), sh: (e.dref || '').split(';').map(parseR).filter(Boolean).slice(0, 2), ref: e.ref.replace(/;/g, '/') }));
+TR.secs.forEach(([nm, i0]) => { if (nm === 'Ramp') return; const s = i0 * STEP + 240; taken.push(s); gantry(s, [{ d: -1.6, w: 7.4, tex: guideTex({ sh: [ROUTE[nm]], lines: [CTRL[nm]] }) }]); });
+const wrapS = s => ((s % L) + L) % L;
+function sideSign(s, tex) { frame(s, F); const d = 11.2 + exrAt(s), grp = new THREE.Group(); const sg = new THREE.Mesh(new THREE.PlaneGeometry(6.4, 3.2), signMat(tex)); sg.position.set(0, 4.4, 0); sg.rotation.y = Math.PI; grp.add(sg);
+  const bk = new THREE.Mesh(new THREE.PlaneGeometry(6.4, 3.2), backMat); bk.position.set(0, 4.4, .05); grp.add(bk); [-2.2, 2.2].forEach(x => { const po = new THREE.Mesh(new THREE.BoxGeometry(.25, 6, .25), steel); po.position.set(x, 2.4, .2); grp.add(po); });
+  grp.position.set(F.p.x + F.r.x * d, F.p.y - .6, F.p.z + F.r.z * d); grp.rotation.y = F.h; scene.add(grp); side.push(s); }
+for (const [b, foot] of [[300, 'EXIT ONLY'], [805, '½ MILE']]) for (const e of EXS) { const lines = e.nm.length ? e.nm : ['Exit'];
+  for (const o of [0, 40, -40, 80, -80, 120]) { const s = wrapS(e.s - b + o); if (!freeAt(s)) continue; taken.push(s); const nl = nlAt(s);
+    gantry(s, [{ d: laneD(nl - 1) + .4, w: 7.4, tab: e.ref ? 'EXIT ' + e.ref : '', tex: guideTex({ sh: e.sh, lines, foot: e.route && foot === 'EXIT ONLY' ? '' : foot }) }]); break; } }
+for (const e of EXS) for (const o of [0, 60, -60, 120, -120, 180]) { const s = wrapS(e.s - 1610 + o); if (taken.some(t => Math.abs(t - s) < 45) || side.some(t => Math.abs(t - s) < 80) || OPEN[W(Math.floor(s / STEP))]) continue;
+  sideSign(s, guideTex({ sh: e.sh, lines: e.nm.length ? e.nm : ['Exit'], foot: '1 MILE' })); if (e.ref) { } break; }
+'''
+s=s.replace(old,new)
+# Interstate Bridge: exaggerated lift towers + heavier truss
+rep("const ht = u => w.mov ? 13 : 5 + 7 * Math.sin(Math.PI * (((u % 82) + 82) % 82) / 82);","const ht = u => w.mov ? 20 : 7 + 11 * Math.sin(Math.PI * (((u % 82) + 82) % 82) / 82);")
+rep("tr.push([ax, yd0, az, bx, yd1, bz, .6, .7], [ax, yd0 + h0, az, bx, yd1 + h1, bz, .7, .7], [ax, yd0, az, ax, yd0 + h0, az, .35, .35],","tr.push([ax, yd0, az, bx, yd1, bz, 1.1, 1.2], [ax, yd0 + h0, az, bx, yd1 + h1, bz, 1.3, 1.3], [ax, yd0, az, ax, yd0 + h0, az, .7, .7],")
+rep("yd + 50, z - ux * 7 * sx + uz * 2.5 * sz, .9, .9])));","yd + 88, z - ux * 7 * sx + uz * 2.5 * sz, 2.6, 2.6])));")
+rep("tw.push([x + uz * 7.5, yd + 50, z - ux * 7.5, x - uz * 7.5, yd + 50, z + ux * 7.5, 6, 2.2], [x + uz * 7.5, yd + 30, z - ux * 7.5, x - uz * 7.5, yd + 30, z + ux * 7.5, 5.5, 4]);","tw.push([x + uz * 8.5, yd + 88, z - ux * 8.5, x - uz * 8.5, yd + 88, z + ux * 8.5, 7, 4], [x + uz * 8.5, yd + 56, z - ux * 8.5, x - uz * 8.5, yd + 56, z + ux * 8.5, 6, 3], [x + uz * 8.5, yd + 24, z - ux * 8.5, x - uz * 8.5, yd + 24, z + ux * 8.5, 6, 3]);")
+rep("color: DAY ? 0x7d8a80 : 0x2a302c","color: DAY ? 0x56665c : 0x2a302c")
+# Glenn Jackson: higher, longer rise, more piers
+rep("WATER_Y + 4 + 52 * THREE.MathUtils.smoothstep(z, z0, z0 + 450)","WATER_Y + 4 + 100 * THREE.MathUtils.smoothstep(z, z0, z0 + 650)")
+rep("if (k % 7 === 0 && ya","if (k % 5 === 0 && ya")
+rep("dk.push([xa, ya - 3.5, za, xb, yb - 3.5, zb, 20, 5]","dk.push([xa, ya - 6, za, xb, yb - 6, zb, 24, 8]")
+rep("color: DAY ? 0xa29e94 : 0x333335","color: DAY ? 0x8e8a81 : 0x333335")
+# insert scene
+mk="// ---------- fir tree cards"
+s=s.replace(mk,open('/workspace/repo/loopsrc/whole_scene.js').read()+mk,1)
+open(p,'w').write(s);print('ok')

diff --git a/loopsrc/shots_whole.py b/loopsrc/shots_whole.py
@@ -1,0 +1,16 @@
+import asyncio,sys
+from playwright.async_api import async_playwright
+SH=[(n,i*4,d,0) for n,i,d in [('w01-sr500-stjohns',433,0),('w02-i5-sr500',975,0),('w03-i5-downtown',1140,0),('w04-i5-ibridge',1500,-3.7),('w05-i5-sr14',1600,0),('w06-sr14-river-rail',2560,3.7),('w07-sr14-glenn',3770,0),('w07b-sr14-glenn',3820,0),('w08-sr14-i205',3960,0),('w09-i205-walls',4650,0),('w10-i205-sr500',5330,0),('w11-sr500-mall',5940,0)]]
+async def run():
+  async with async_playwright() as p:
+    b=await p.chromium.launch(args=["--use-gl=angle","--use-angle=swiftshader","--enable-unsafe-swiftshader","--ignore-gpu-blocklist"])
+    pg=await b.new_page(viewport={'width':844,'height':390},is_mobile=True,has_touch=True,device_scale_factor=1.5)
+    errs=[];pg.on('pageerror',lambda e:errs.append('PAGEERR '+str(e)));pg.on('console',lambda c:c.type=='error' and errs.append(c.text))
+    await pg.goto('http://localhost:8788/'+(sys.argv[1] if len(sys.argv)>1 else '?auto&low'),timeout=120000)
+    await pg.wait_for_function("window.__ready",timeout=200000)
+    await pg.click('#go'); await pg.wait_for_timeout(2000)
+    for nm,s,d,_ in SH:
+      await pg.evaluate(f"__jump({s},{d})"); await pg.evaluate("__sim(.6)"); await pg.wait_for_timeout(3500)
+      await pg.screenshot(path=f'shots/{nm}.png',timeout=240000); print('SHOT',nm,flush=True)
+    print('ERR',errs[:8]); await b.close()
+asyncio.run(run())
